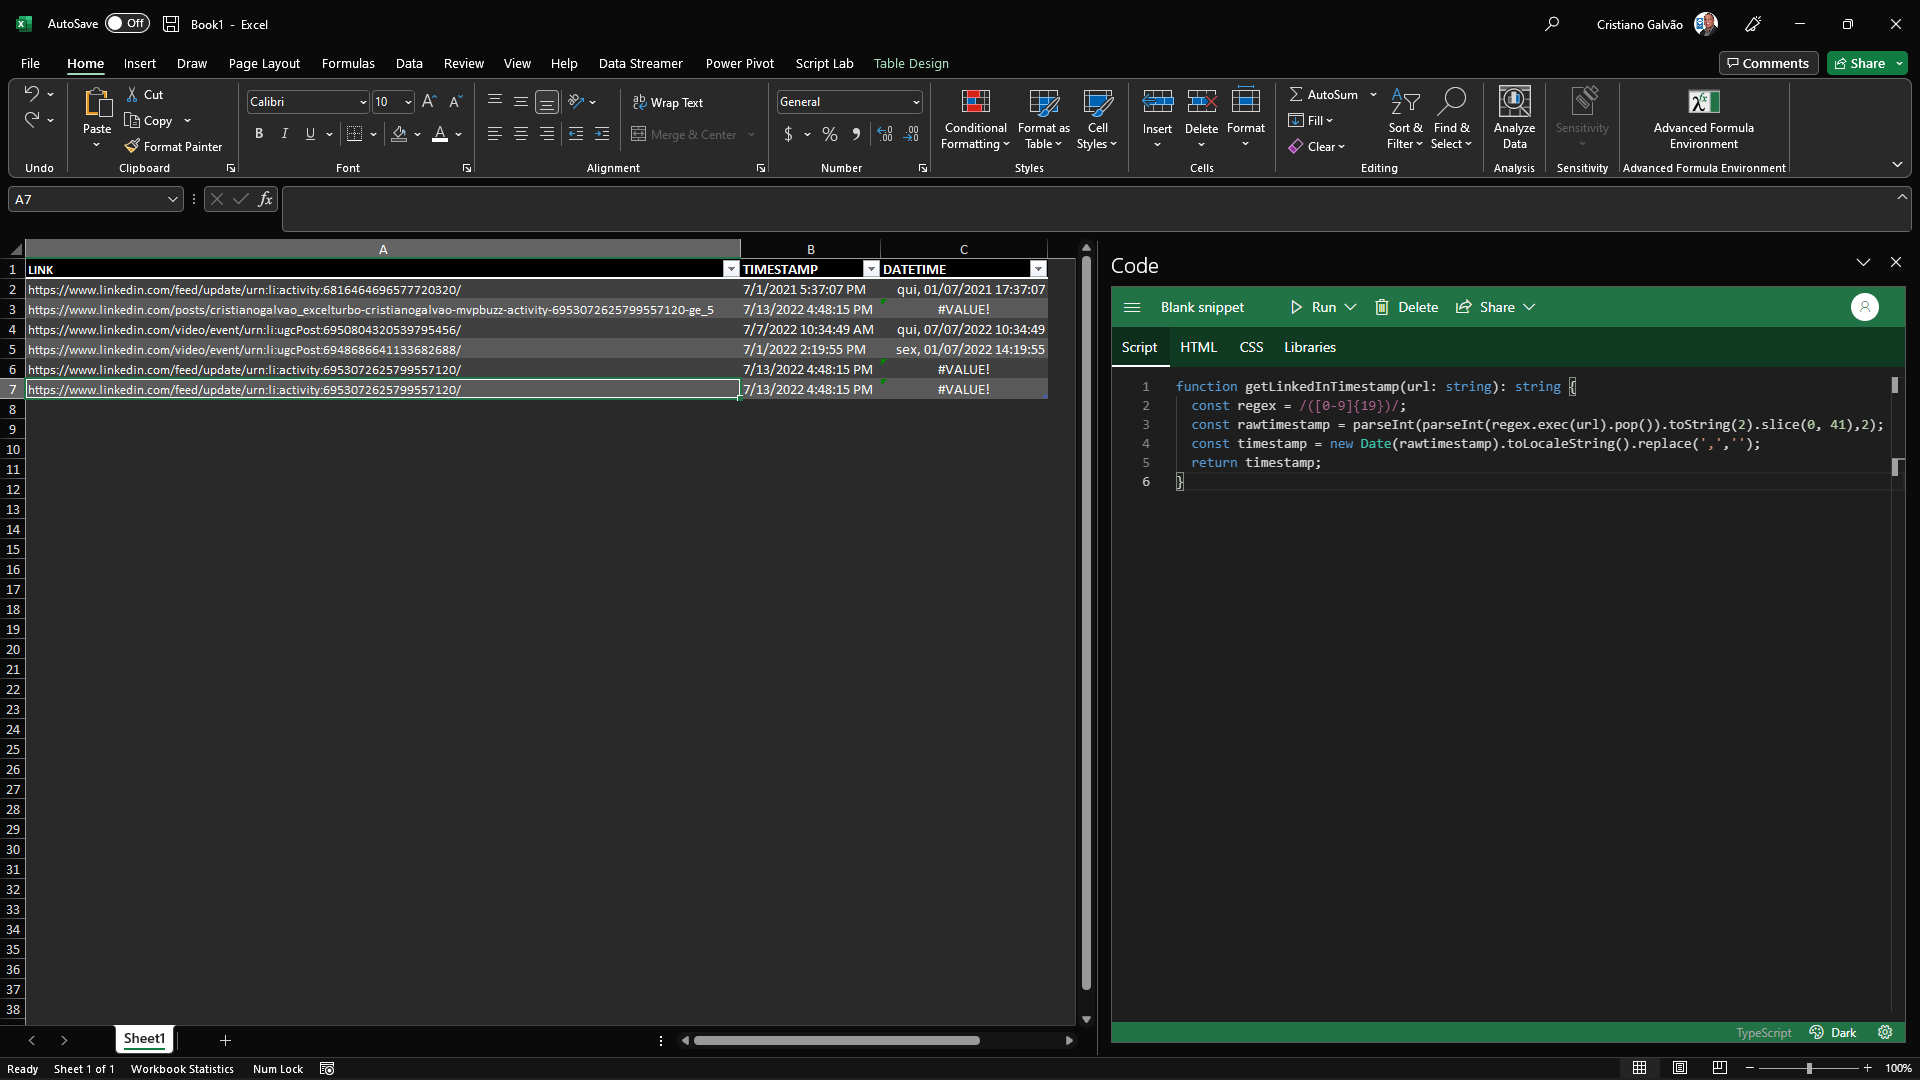
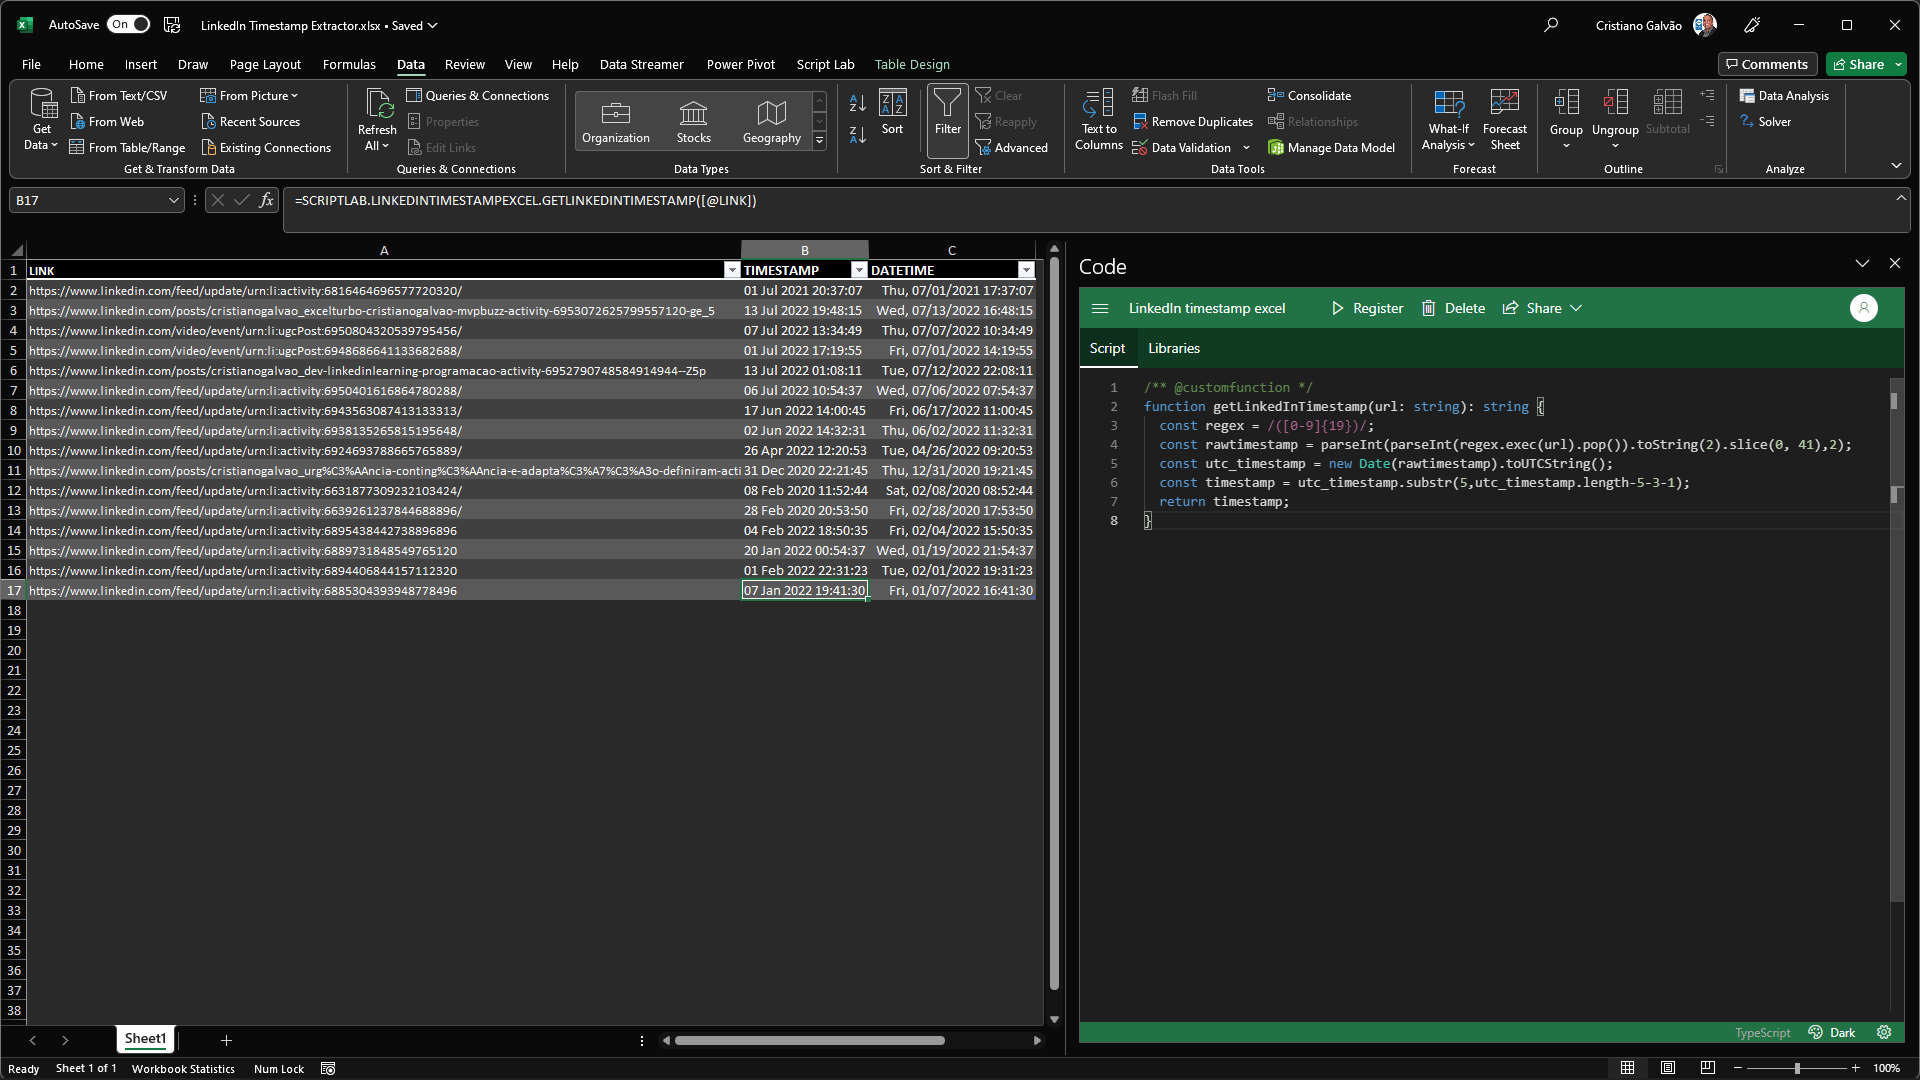
Add files via upload

diff --git a/script.js b/script.js
@@ -1,6 +1,8 @@
+/** @customfunction */
 function getLinkedInTimestamp(url: string): string {
   const regex = /([0-9]{19})/;
   const rawtimestamp = parseInt(parseInt(regex.exec(url).pop()).toString(2).slice(0, 41),2);
-  const timestamp = new Date(rawtimestamp).toLocaleString().replace(',','');
+  const utc_timestamp = new Date(rawtimestamp).toUTCString();
+  const timestamp = utc_timestamp.substr(5,utc_timestamp.length-5-3-1);
   return timestamp;
 }

diff --git a/README.md b/README.md
@@ -1,2 +1,1 @@
-# linkedin-timestamp-excel
-This is an Excel custom function made with Office Script (script labs). This was inspired by Ollie Boyd's work Linkedin-post-timestamp-extractor (https://github.com/Ollie-Boyd/Linkedin-post-timestamp-extractor), from where I got the understanding of how the date and time is encoded on LinkedIn URLs. I just adapted that code simplifying into one single function and adapting to the language used in Excel. I also changed the output format to better fit our needs in Excel. This is my first Excel function made with Office Script. The output on this first version is string, but it can easily converted to Excel date by multiplying the result by 1.
+This is an Excel custom function made with Office Script (script labs). This was inspired by Ollie Boyd's work Linkedin-post-timestamp-extractor (https://github.com/Ollie-Boyd/Linkedin-post-timestamp-extractor), from where I got the understanding of how the date and time is encoded on LinkedIn URLs. I just adapted that code simplifying into one single function and adapting to the language used in Excel. I also changed the output format to better fit our needs in Excel. This is my first Excel function made with Office Script. The output on this first version is string, but it can easily converted to Excel date by multiplying the result by 1. Additionally, you can addjust the extracted timestamp to your local time zone by adding or substracting ours by using the notation 1/24 meaning 1 hour. For example, GMT-3 will be =1*RESULT-3/24.
